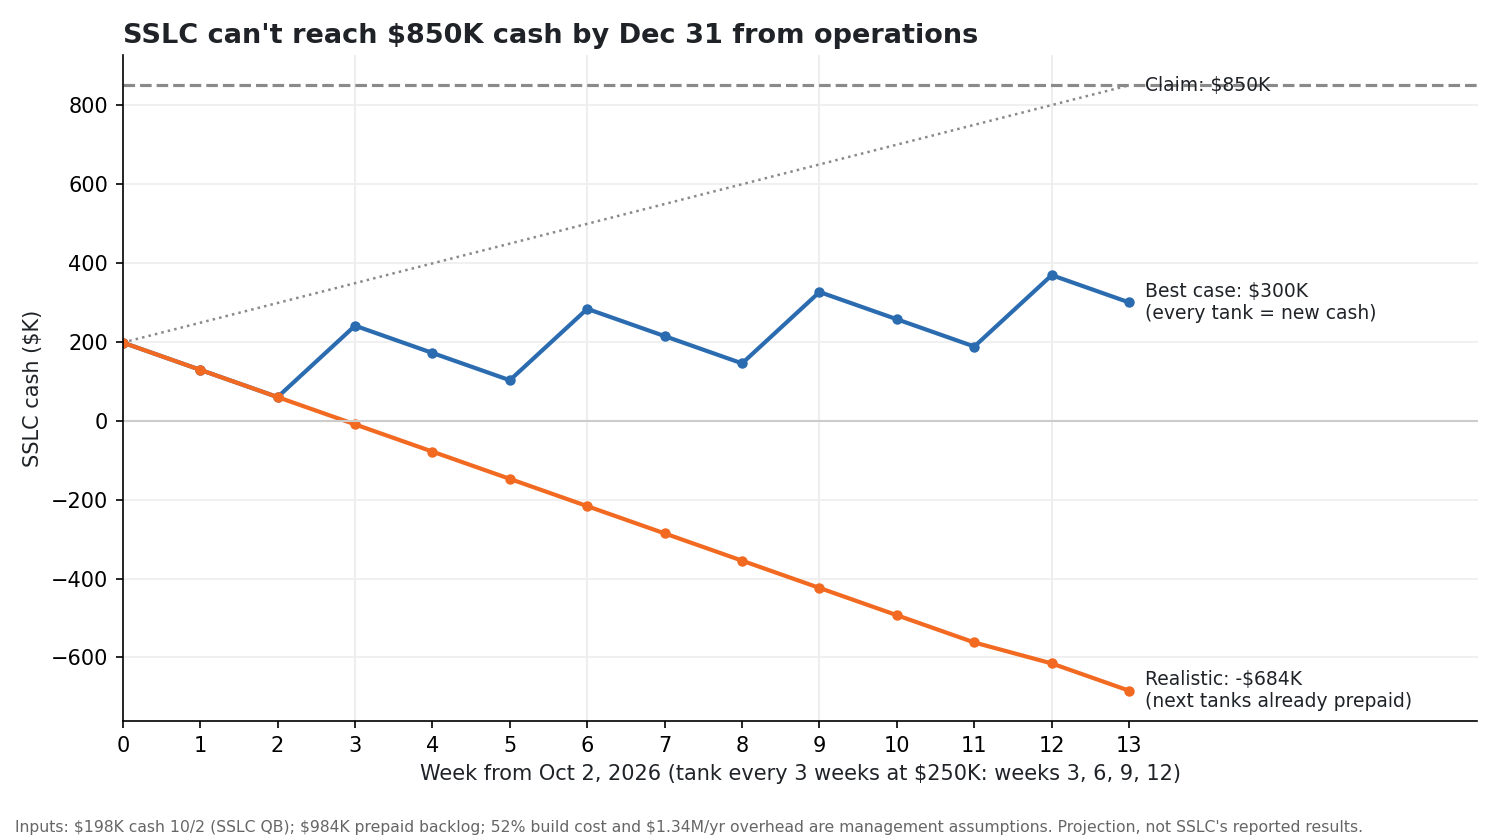
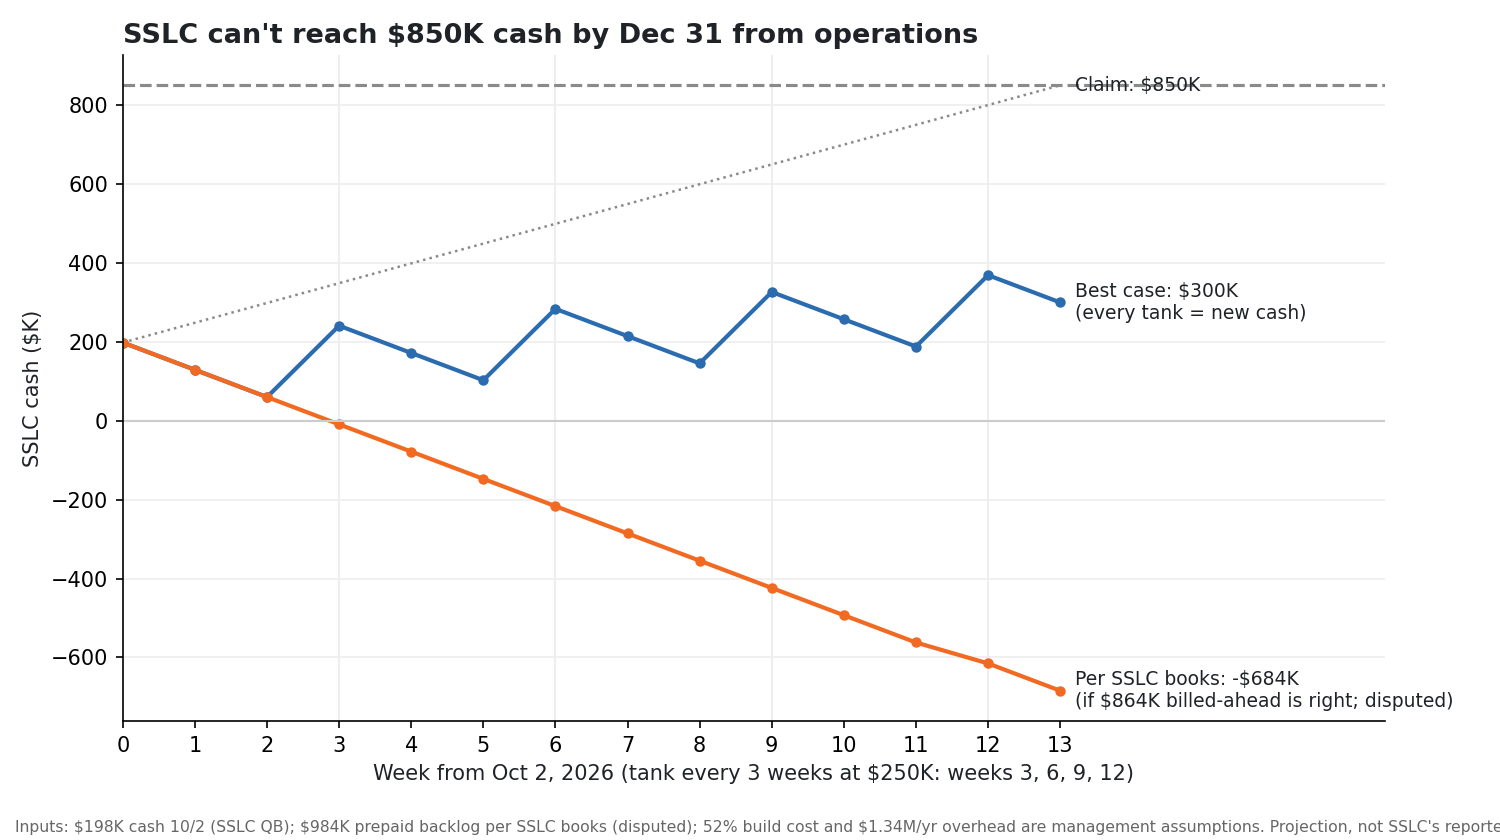
SSLC cash check: mark $864K billed-ahead as disputed (John 10/10)

diff --git a/scripts/build_sslc_cash_reality_check_1010.py b/scripts/build_sslc_cash_reality_check_1010.py
@@ -29,7 +29,7 @@ INPUTS = [
     ("Weeks Oct 2 → Dec 31", 13, "Calendar"),
     ("Weeks per tank (Markus Rufer)", 3, "Markus Rufer statement"),
     ("Price per tank ($)", 250000, "Markus Rufer statement"),
-    ("Prepaid backlog already collected ($)", 984000, "SSLC QB 10/2: $864K billed ahead + $120K deposits"),
+    ("Prepaid backlog already collected ($)", 984000, "SSLC QB 10/2: $864K billed ahead + $120K deposits. DISPUTED by John: tank start/billing not captured correctly"),
     ("Direct build cost (% of tank price)", 0.52, "Management assumption (actuals-anchored model COGS)"),
     ("Annual fixed overhead ($)", 1340000, "Derived: FY26 rev $1.925M × 48% GM + $416K op loss; mgmt assumption"),
 ]
@@ -55,7 +55,7 @@ def build_xlsx():
 
     ws = wb.create_sheet("Weekly Cash")
     ws.append(["Week", "Tank delivered?", "Tank revenue ($)",
-               "Best case: cash balance", "Realistic: cash balance", "Wertz claim path", "Target $850K"])
+               "Best case: cash balance", "Per SSLC books (disputed): cash balance", "Wertz claim path", "Target $850K"])
     for c in ws[1]:
         c.font = Font(bold=True)
         c.alignment = Alignment(wrap_text=True)
@@ -87,10 +87,10 @@ def build_xlsx():
         ("Tanks delivered by Dec 31 at 1 per 3 weeks", "=COUNTIF('Weekly Cash'!B3:B15,\"Yes\")"),
         ("Tank revenue by Dec 31", "=SUM('Weekly Cash'!C3:C15)"),
         ("Best case year-end cash (all tanks = new cash)", "='Weekly Cash'!D15"),
-        ("Realistic year-end cash (prepaid backlog first)", "='Weekly Cash'!E15"),
+        ("Per SSLC books, if billed-ahead is accurate (DISPUTED)", "='Weekly Cash'!E15"),
         ("Wertz claim", "=Inputs!B4"),
         ("Shortfall vs claim: best case", "=Inputs!B4-B5"),
-        ("Shortfall vs claim: realistic", "=Inputs!B4-B6"),
+        ("Shortfall vs claim: per SSLC books (disputed)", "=Inputs!B4-B6"),
     ]
     for i, (k, f) in enumerate(rows, start=3):
         s[f"A{i}"], s[f"B{i}"] = k, f
@@ -151,7 +151,7 @@ def build_png():
     lab = dict(fontsize=9, va="center", color=INK)
     ax.text(13.2, target / 1000, f"Claim: ${target/1000:,.0f}K", **lab)
     ax.text(13.2, best[-1] / 1000, f"Best case: ${best[-1]/1000:,.0f}K\n(every tank = new cash)", **lab)
-    ax.text(13.2, real[-1] / 1000, f"Realistic: -${-real[-1]/1000:,.0f}K\n(next tanks already prepaid)", **lab)
+    ax.text(13.2, real[-1] / 1000, f"Per SSLC books: -${-real[-1]/1000:,.0f}K\n(if $864K billed-ahead is right; disputed)", **lab)
     for wk in (3, 6, 9, 12):
         ax.axvline(wk, color="#EEEEEE", lw=1, zorder=0)
     ax.set_xlim(0, 17.5)
@@ -164,7 +164,7 @@ def build_png():
         ax.spines[s].set_visible(False)
     ax.grid(axis="y", color="#EEEEEE")
     fig.text(0.01, 0.01,
-             "Inputs: $198K cash 10/2 (SSLC QB); $984K prepaid backlog; 52% build cost and $1.34M/yr overhead "
+             "Inputs: $198K cash 10/2 (SSLC QB); $984K prepaid backlog per SSLC books (disputed); 52% build cost and $1.34M/yr overhead "
              "are management assumptions. Projection, not SSLC's reported results.",
              fontsize=7.5, color="#666666")
     fig.tight_layout(rect=(0, 0.04, 1, 1))
